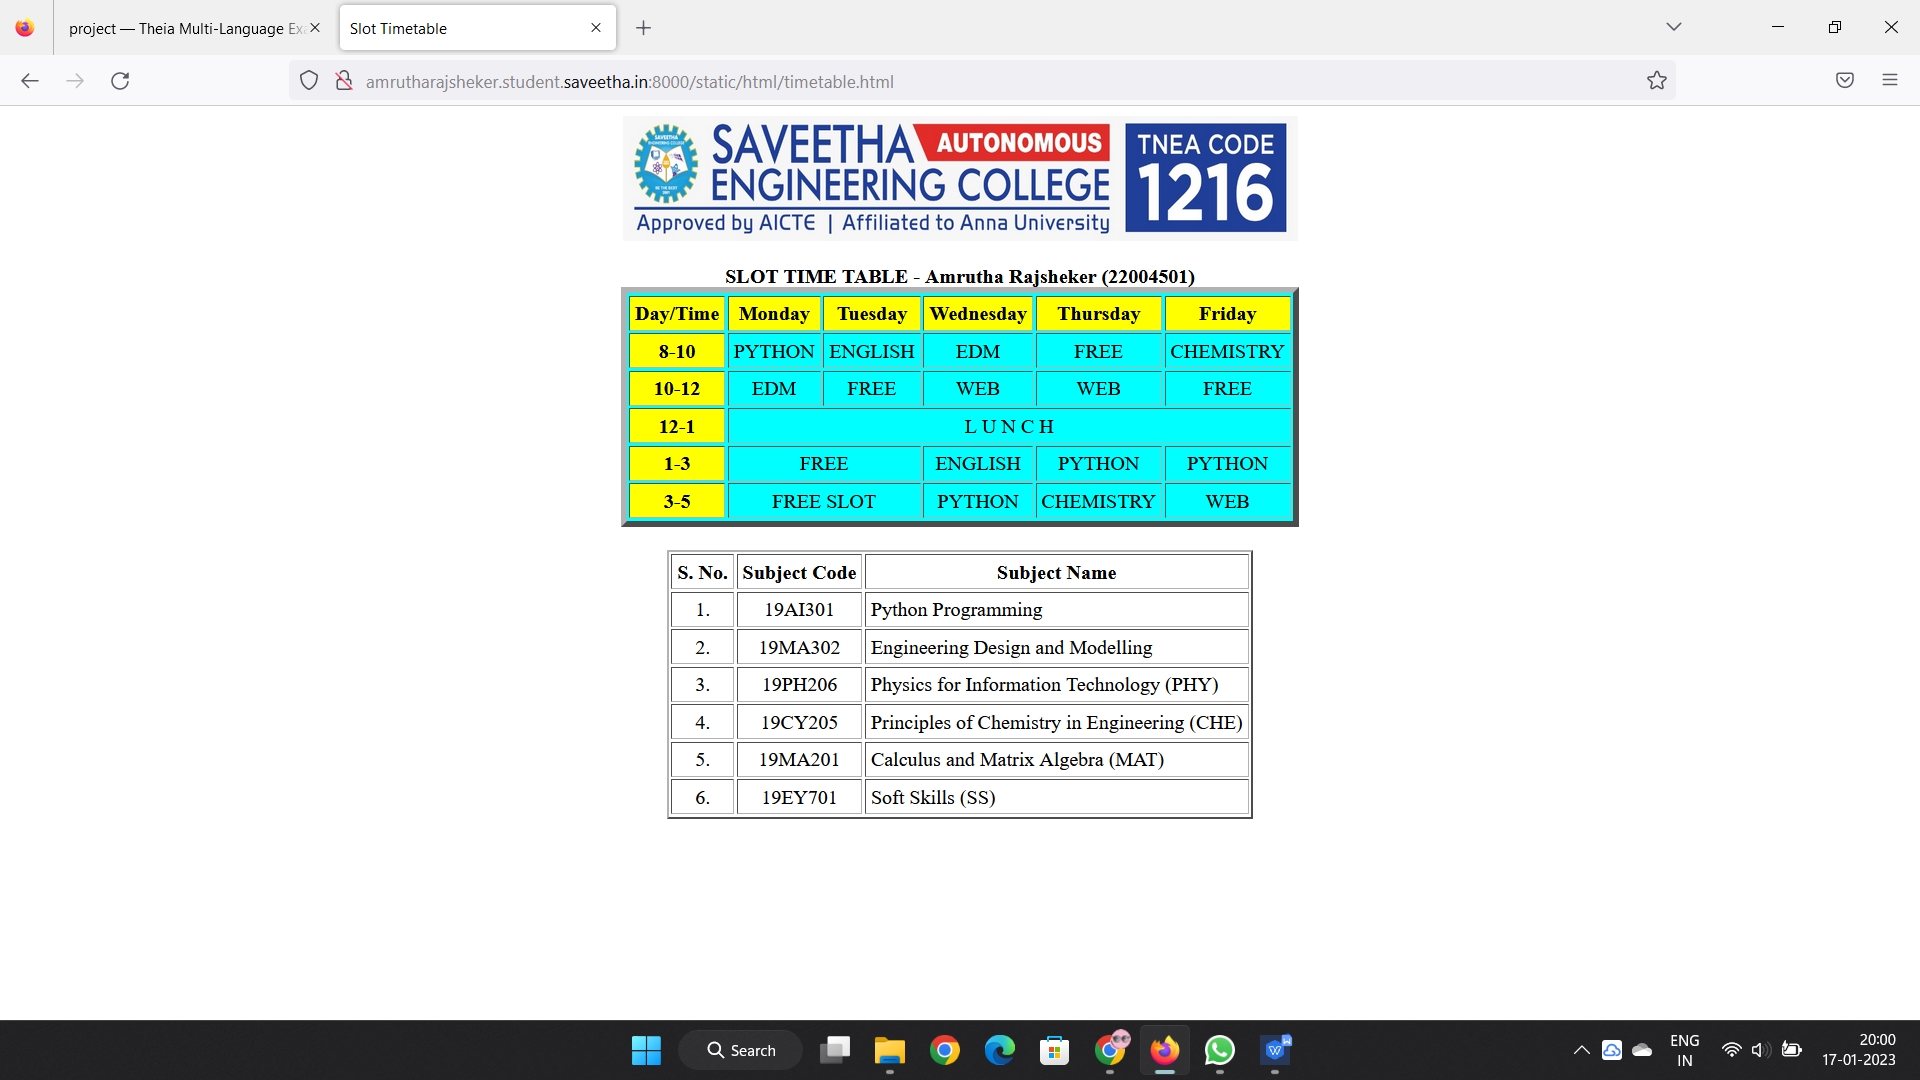
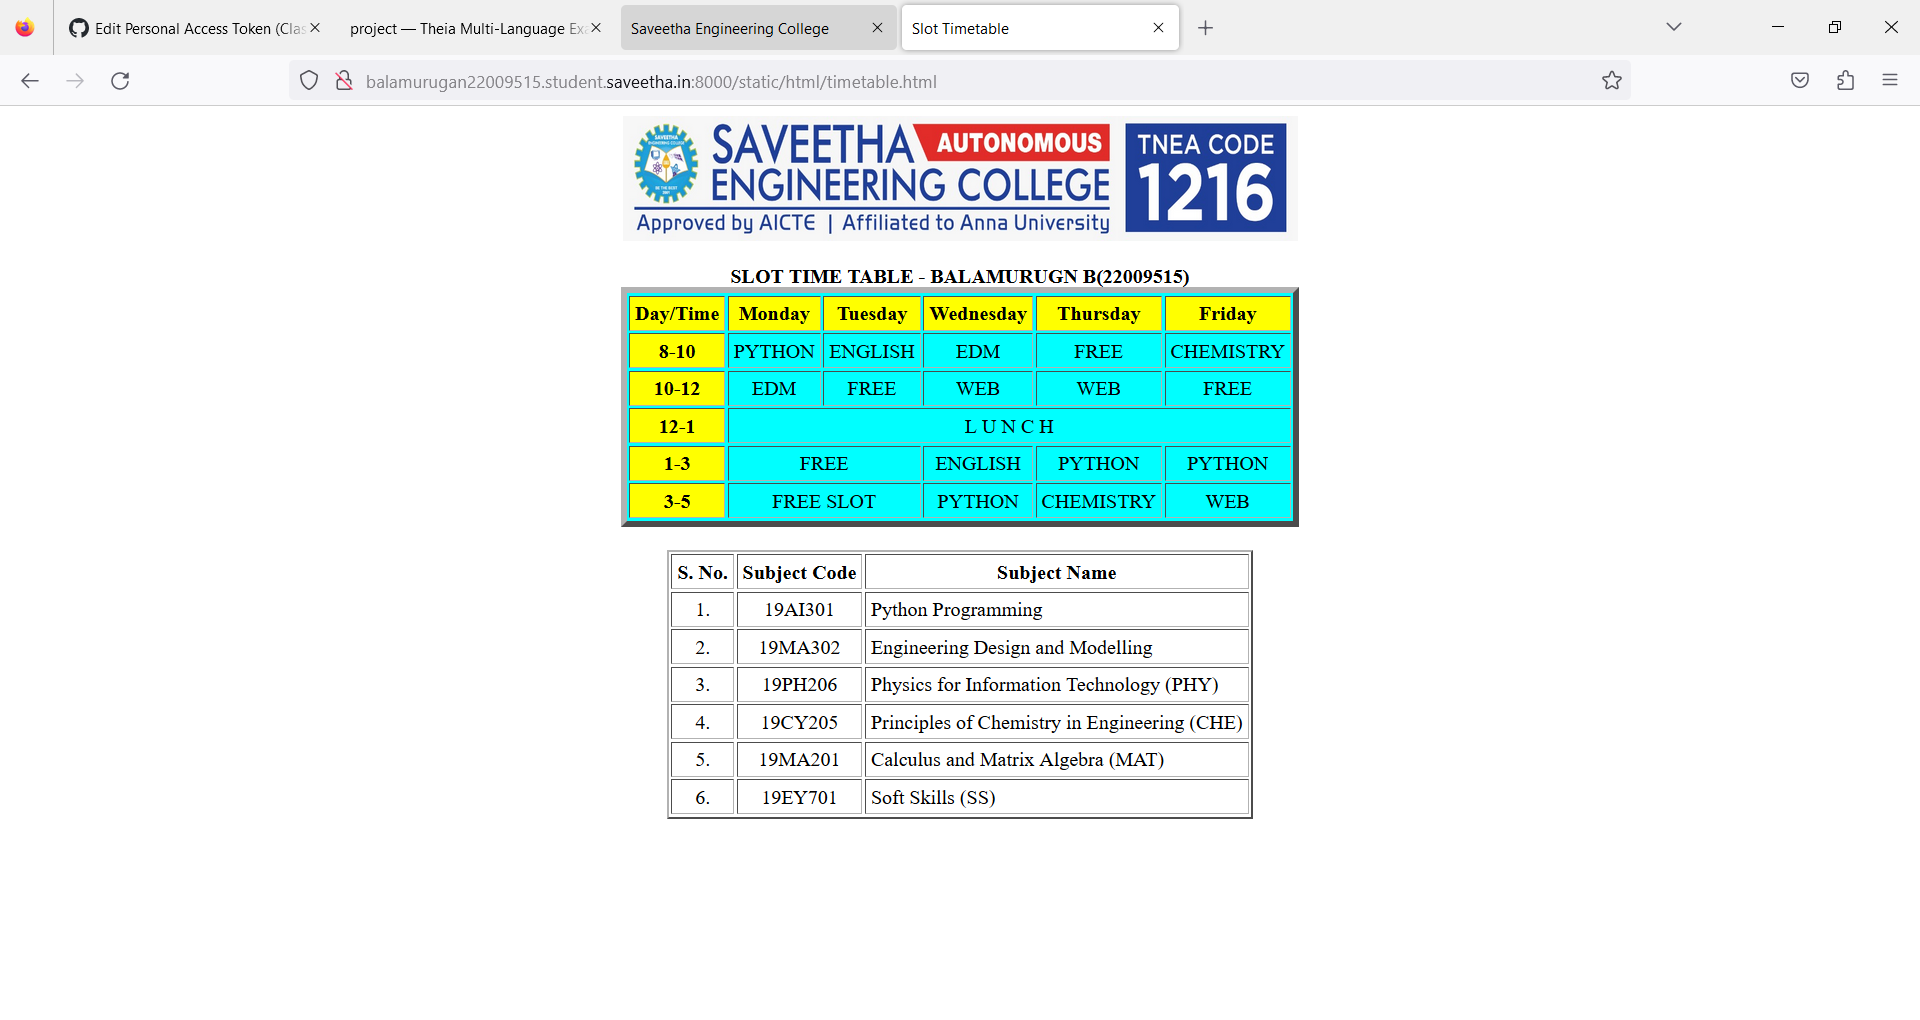
Success

diff --git a/README.md b/README.md
@@ -116,10 +116,10 @@ Execute the program
 ```
 
 # OUTPUT
-![OUTPUT](http://amrutharajsheker.student.saveetha.in:8000/static/images/out.png?raw=true)
+![OUTPUT](http://balamurugan22009515.student.saveetha.in:8000/static/images/out.png?raw=true)
 
 # HTML VALIDATIOR
-![HTML VALIDATOR](http://amrutharajsheker.student.saveetha.in:8000/static/images/valid.png?raw=true)
+![HTML VALIDATOR](http://balamurugan22009515.student.saveetha.in:8000/static/images/valid.png?raw=true)
 
 # RESULT
 The program for creating slot timetable is completed successfully
